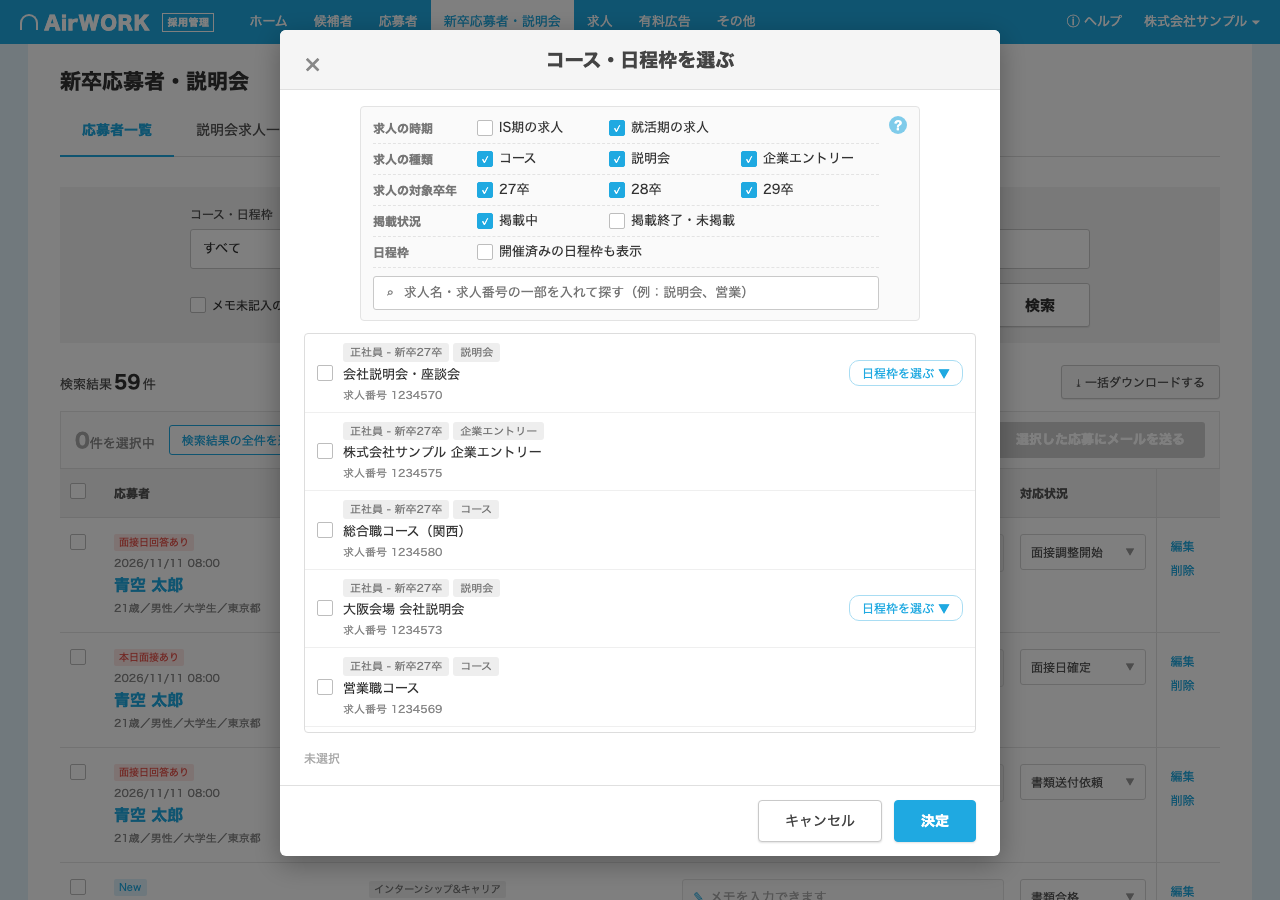
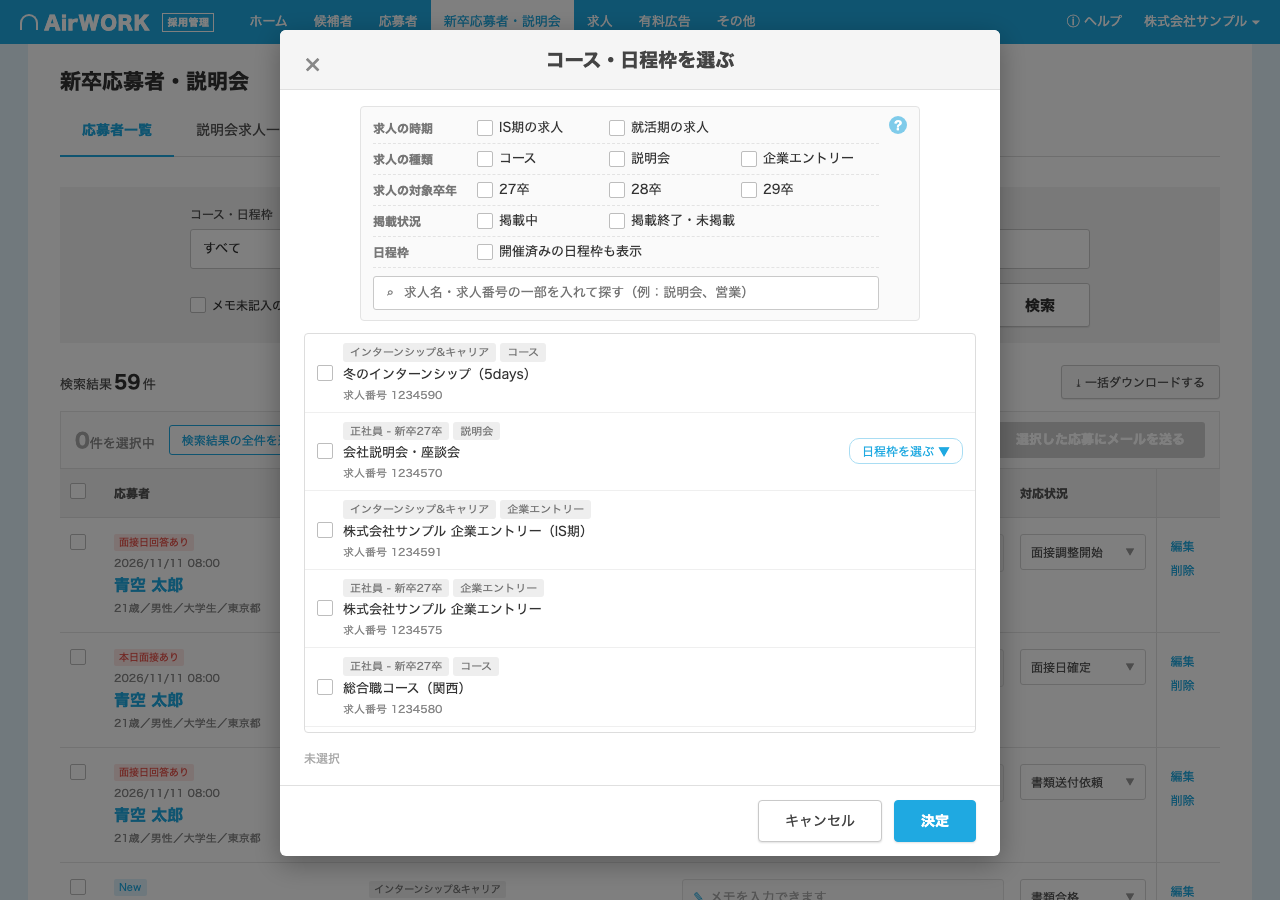
コース・日程枠モーダルの最初のチェックをなくす（チェックなし＝すべて、付けたものに絞る）

diff --git a/app.js b/app.js
@@ -481,11 +481,12 @@
     ['post', '掲載状況', () => [['on', '掲載中'], ['off', '掲載終了・未掲載']], true],
     ['past', '日程枠', () => [['on', '開催済みの日程枠も表示']], true],
   ];
-  const defaultFs = () => ({ season: new Set(['main']), type: new Set(['course', 'seminar', 'entry']), year: new Set(MD_YEARS), post: new Set(['on']), past: new Set() });
+  const defaultFs = () => ({ season: new Set(), type: new Set(), year: new Set(), post: new Set(), past: new Set() });
+  const pass = (set, v) => set.size === 0 || set.has(v);
   function visibleJobs() {
     const fs = M.fs;
-    return JOBS.filter((j) => hasApps(j.id) && fs.season.has(j.season) && fs.type.has(j.type)
-      && j.years.some((y) => fs.year.has(y)) && fs.post.has(j.posted ? 'on' : 'off')
+    return JOBS.filter((j) => hasApps(j.id) && pass(fs.season, j.season) && pass(fs.type, j.type)
+      && (fs.year.size === 0 || j.years.some((y) => fs.year.has(y))) && pass(fs.post, j.posted ? 'on' : 'off')
       && (!M.q || j.name.includes(M.q) || j.id.includes(M.q)))
       .sort((a, b) => b.created.localeCompare(a.created));
   }
@@ -498,7 +499,7 @@
   function closeModal() { $('ov').classList.remove('open'); $('md').classList.remove('open'); }
   function renderModal() {
     const fs = M.fs;
-    const isIS = !fs.season.has('main');
+    const isIS = fs.season.size === 1 && fs.season.has('IS');
     $('frows').innerHTML = FROWS.map(([f, label, opts]) => `<div class="frow"><span class="fl">${label}</span>${opts().map(([v, t]) => {
       const dis = f === 'type' && v === 'seminar' && isIS;
       return `<label class="cb ${dis ? 'dis' : ''}" data-f="${f}" data-v="${v}"><span class="box ${fs[f].has(v) && !dis ? 'on' : ''}"></span>${t}</label>`;
@@ -560,10 +561,8 @@
       renderModal();
       return;
     }
-    if (set.has(v)) {
-      if (set.size === 1) { toast('最後の1つは外せません'); return; }
-      set.delete(v);
-    } else set.add(v);
+    if (set.has(v)) set.delete(v); else set.add(v);
+    if (M.fs.season.size === 1 && M.fs.season.has('IS')) M.fs.type.delete('seminar');
     M.focus = null;
     renderModal();
   };
@@ -836,7 +835,7 @@
   if (location.hash === '#modal-is') { openModal(); M.fs.season = new Set(['IS']); renderModal(); }
   if (location.hash === '#modal') {
     openModal();
-    if (location.hash === '#modal') { M.fs.season = new Set(['main']); M.focus = '1234570'; M.jobs.add('1234567'); M.slots.add('1234570:none'); renderModal(); }
+    if (location.hash === '#modal') { M.focus = '1234570'; M.jobs.add('1234567'); M.slots.add('1234570:none'); renderModal(); }
   }
   if (location.hash === '#modal-all') { openModal(); toggleJob('1234570'); renderModal(); }
   if (location.hash === '#open' || location.hash === '#cal') { detailOpen = true; renderSearch(); }

diff --git a/index.html b/index.html
@@ -5,7 +5,7 @@
 <meta name="robots" content="noindex, nofollow">
 <meta name="viewport" content="width=1280">
 <title>新卒応募者一覧 一括メール 操作モック</title>
-<link rel="stylesheet" href="style.css?v=1117a">
+<link rel="stylesheet" href="style.css?v=1126a">
 </head>
 <body>
   <div class="mockbar">操作モック（ダミーデータ）：新卒応募者一覧の検索・選択から、一括メールの作成・確認・送信の受け付けまで。一括送付履歴まで。メールの実送信はしません。</div>
@@ -132,6 +132,6 @@
   </div>
 
   <div class="toast" id="toast"></div>
-  <script src="app.js?v=1117a"></script>
+  <script src="app.js?v=1126a"></script>
 </body>
 </html>
